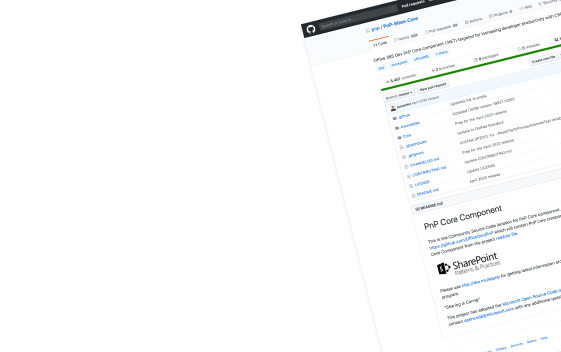
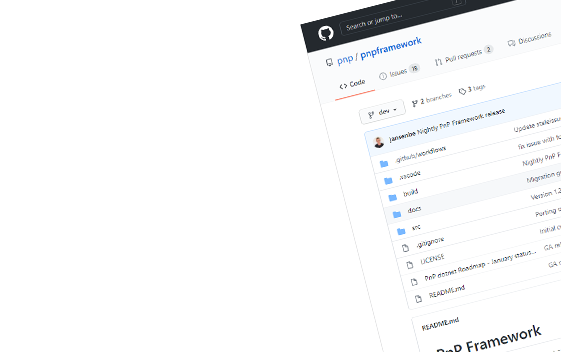
Updated Sites Core to PnP Framework

diff --git a/index.html b/index.html
@@ -573,17 +573,17 @@
             </div>
           </div>
 
-          <div id="PnP-Sites-Core">
+          <div id="PnP-Framework">
             <div class="lnd_card_template _10">
               <div class="lnd_card_text_wrap">
                 <h6 class="lnd_h6">PACKAGES &amp; LIBRARIES</h6>
-                <h6 class="lnd_card_title">Office 365 Dev PnP Core component</h6>
-                <a href="https://github.com/pnp/PnP-Sites-Core" data-w-id="9c583836-aeca-2d9d-90e0-f8aa7d2ed0d2"
+                <h6 class="lnd_card_title">PnP Framework</h6>
+                <a href="https://github.com/pnp/pnpframework" data-w-id="9c583836-aeca-2d9d-90e0-f8aa7d2ed0d2"
                   class="button-wrapper w-inline-block">
                   <div class="button-text">LEARN MORE</div>
                   <div class="fdml button-arrow-2"></div>
                 </a>
-              </div><a href="https://github.com/pnp/PnP-Sites-Core" class="lnd_card_link w-inline-block"></a>
+              </div><a href="https://github.com/pnp/pnpframework" class="lnd_card_link w-inline-block"></a>
             </div>
           </div>
 
